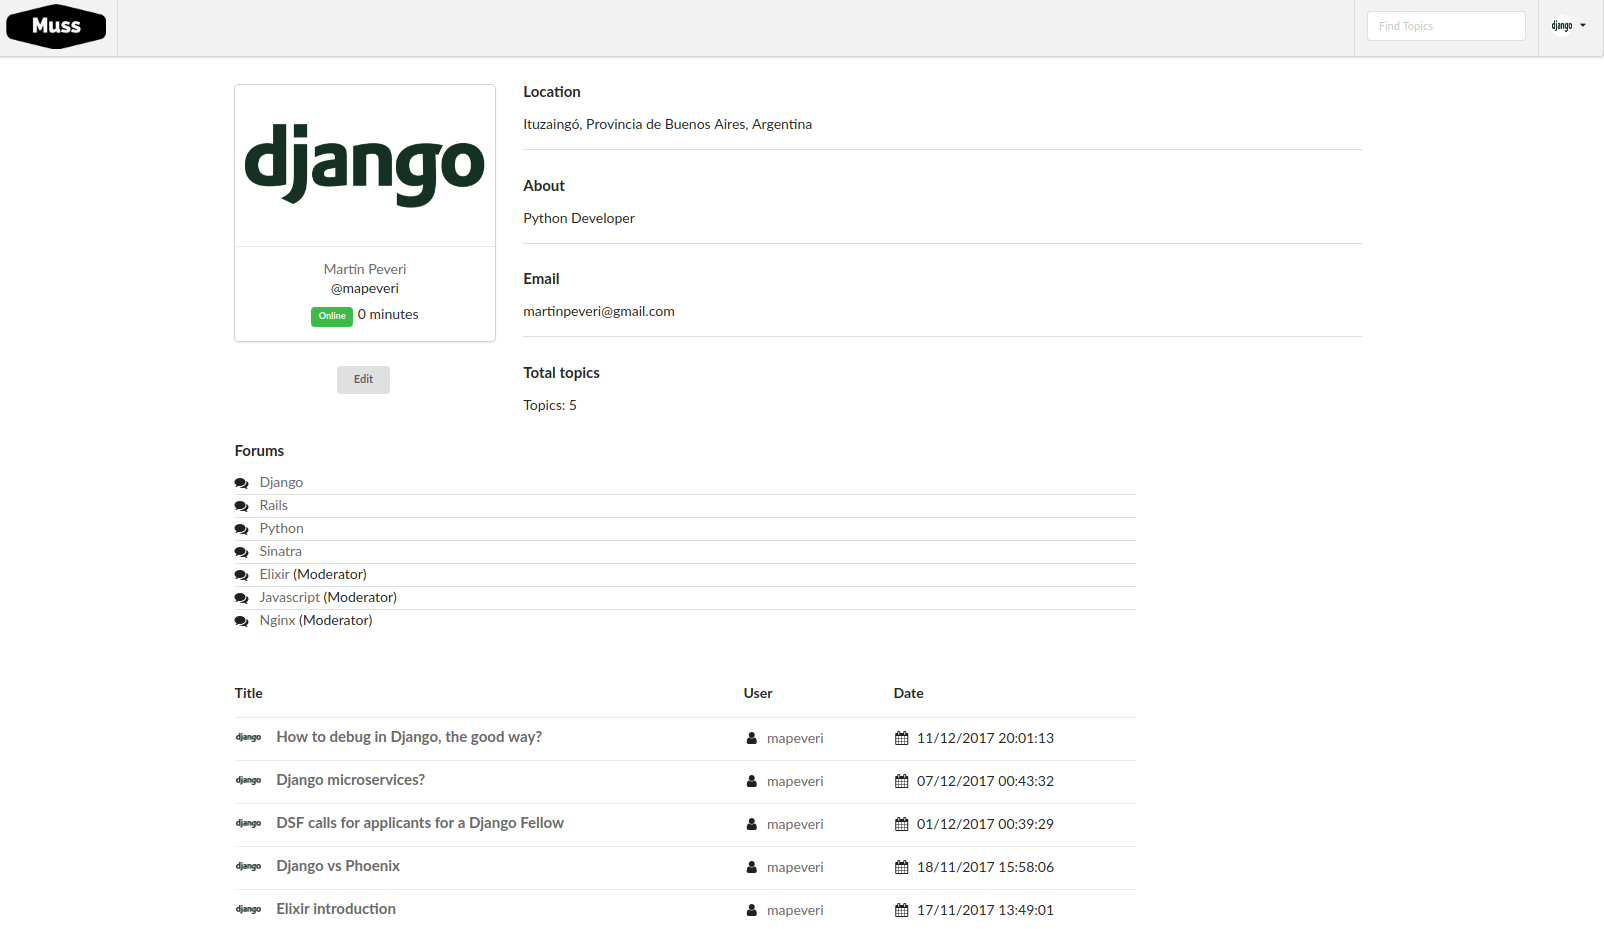
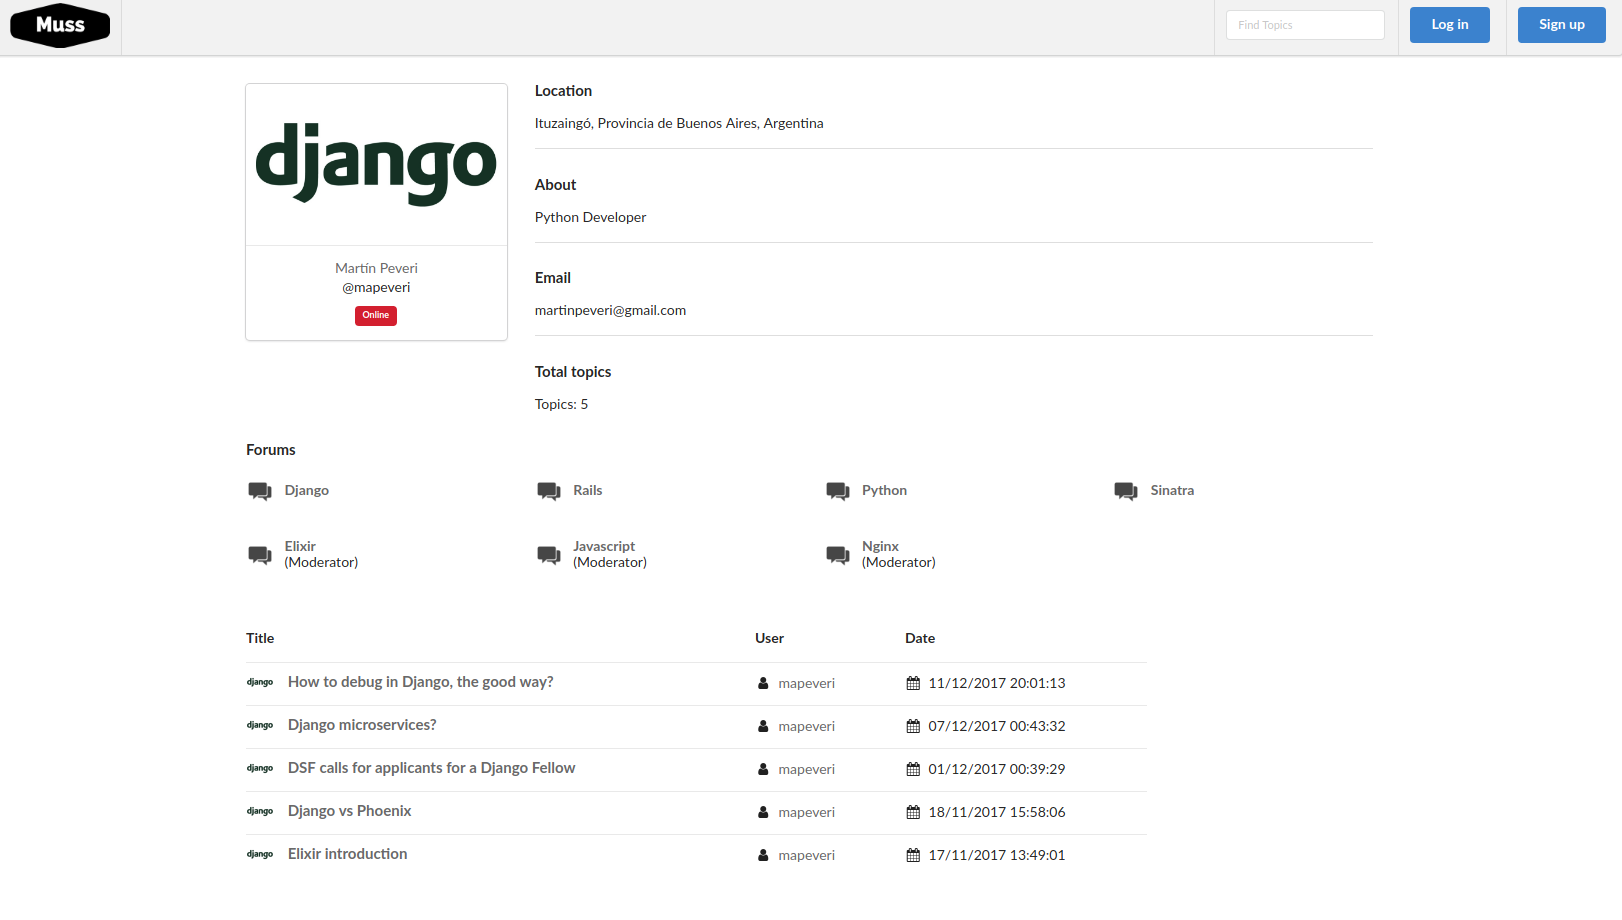
Improvements of design in profile template

diff --git a/static/muss/app/components/profile-header.js b/static/muss/app/components/profile-header.js
@@ -10,6 +10,8 @@ export default Component.extend({
     currentUser: service('current-user'),
     idFormEdit: 'form-edit-profile',
     canEdit: false,
+    urlPhotoForum: window.muss.static_url + '/muss/public/assets/images/forums.png',
+
     setTitleHtml: function() {
         this.updateTitleHtml();
     }.observes('profile.user.username'),

diff --git a/muss/templates/muss/base_muss.html b/muss/templates/muss/base_muss.html
@@ -70,6 +70,7 @@
             'logo_height': '45',
             {% endif %}
             'site_name': "{{ SETTINGS.SITE_NAME }}",
+            'static_url': "{{ SETTINGS.STATIC_URL }}",
         }
     </script>
 
